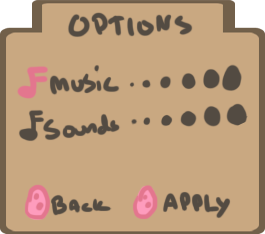
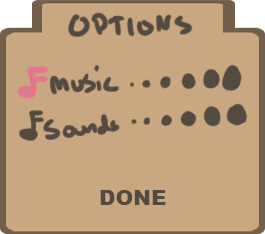
Menu-stuff deleted and gui updated

Changed region(s): [[0.0906, 0.7778, 0.8755, 0.9573]]

diff --git a/Flamingo/Flamingo/Source/gui.cpp b/Flamingo/Flamingo/Source/gui.cpp
@@ -141,7 +141,7 @@ gui::gui(al::input* Input)
 	m_button3->m_sprite.setLayer(296);
 
 	// GameMenu's buttons
-	m_buttonTextures.push_back(new texture("GameMenu/ResumeGame.png")); // 1
+	m_buttonTextures.push_back(new texture("GameMenu/MenuButton.png")); // 1
 	m_Gmenubutton1 = new button(m_buttonTextures.back(),vector(628,331),m_input);
 	m_Gmenubutton1->m_sprite.setLayer(299);
 	
@@ -165,14 +165,11 @@ gui::gui(al::input* Input)
 	m_nobutton = new button(m_buttonTextures.back(),vector(687,375),m_input);
 	m_nobutton->m_sprite.setLayer(300);
 	
-	m_buttonTextures.push_back(new texture("OptionsMenu/Back.png")); // 4
-	m_backbutton = new button(m_buttonTextures.back(),vector(575,450),m_input);
-	m_backbutton->m_sprite.setLayer(300);
+	m_buttonTextures.push_back(new texture("OptionsMenu/Done.png")); // 4
+	m_donebutton = new button(m_buttonTextures.back(),vector(620,440),m_input);
+	m_donebutton->m_sprite.setLayer(300);
 	
-	m_buttonTextures.push_back(new texture("OptionsMenu/Apply.png")); // 5
-	m_applybutton = new button(m_buttonTextures.back(),vector(700,450),m_input);
-	m_applybutton->m_sprite.setLayer(300);
-
+	
 
 	m_font = new font();
 
@@ -234,8 +231,8 @@ gui::~gui()
 	delete m_Gmenubutton4;
 	delete m_yesbutton;
 	delete m_nobutton;
-	delete m_backbutton;
-	delete m_applybutton;
+	delete m_donebutton;
+	
 
 	for (int i = 0; i < m_buttonTextures.size(); ++i)
 	{
@@ -270,8 +267,8 @@ void gui::update(float DeltaTime)
 
 	if (m_Options)
 	{
-		m_backbutton->update(DeltaTime);
-		m_applybutton->update(DeltaTime);
+		m_donebutton->update(DeltaTime);
+		
 
 	}
 
@@ -335,8 +332,8 @@ void gui::draw(al::viewport* Viewport)
 
 	if (m_Options)
 	{
-		m_backbutton->draw(Viewport);
-		m_applybutton->draw(Viewport);
+		m_donebutton->draw(Viewport);
+		
 	}
 		
 	

diff --git a/Flamingo/Flamingo/Source/game.cpp b/Flamingo/Flamingo/Source/game.cpp
@@ -306,13 +306,7 @@ void game::update(float deltaTime)
 		m_gui->m_Options = true;	
 		m_gui->update(deltaTime);
 
-			if(m_gui->m_backbutton->isPressed() && ML_release)
-			{
-				ML_release = false;
-				state = Gamemenu;
-				m_gui->m_Options = false;
-			}
-			else if(m_gui->m_applybutton->isPressed() && ML_release)
+			if(m_gui->m_donebutton->isPressed() && ML_release)
 			{
 				ML_release = false;
 				state = Gamemenu;

diff --git a/Flamingo/Flamingo/Include/gui.h b/Flamingo/Flamingo/Include/gui.h
@@ -80,8 +80,8 @@ public:
 	button* m_yesbutton;
 	button* m_nobutton;
 
-	button* m_backbutton;
-	button* m_applybutton;
+	button* m_donebutton;
+	
 
 
 private:
